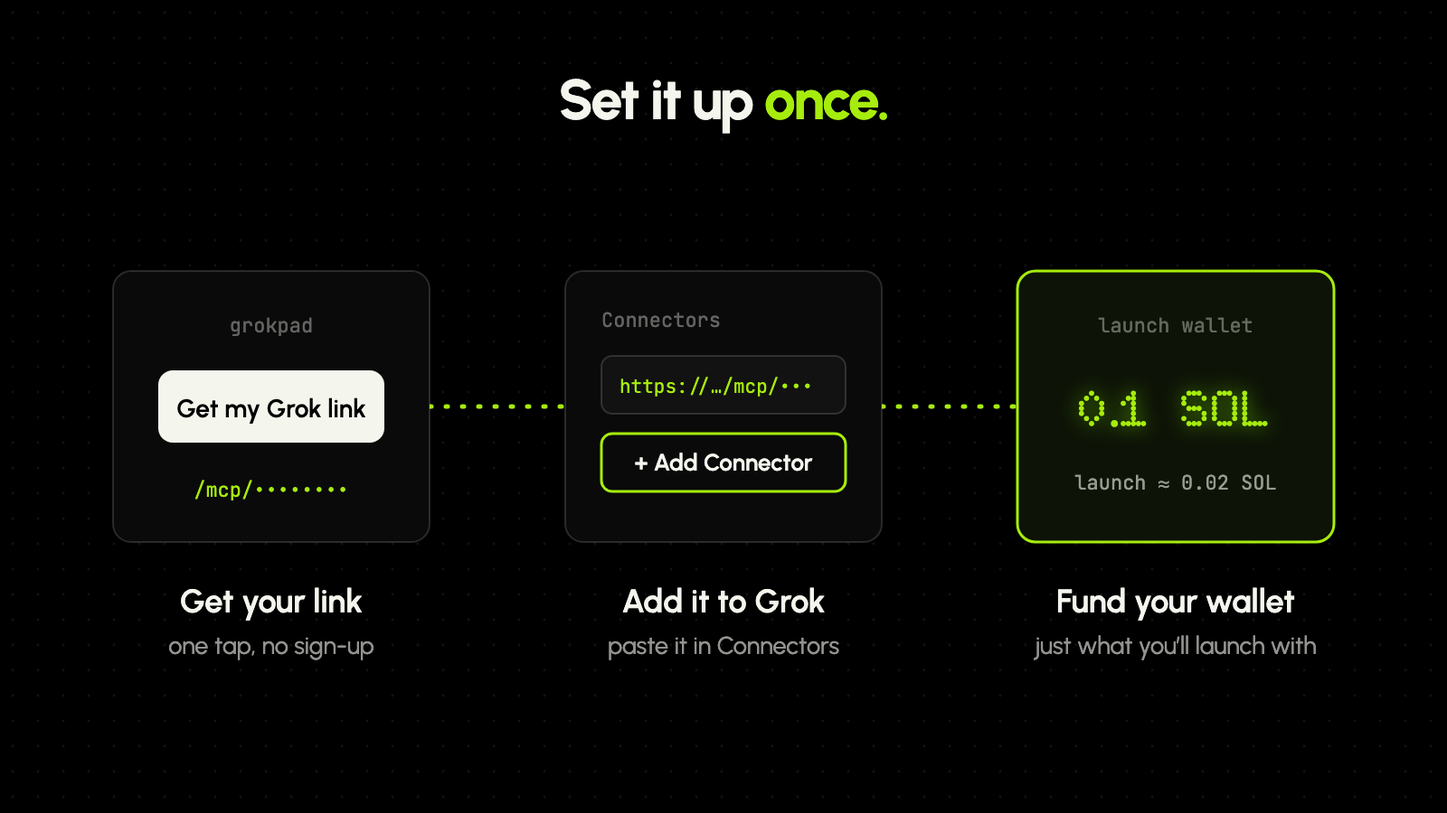
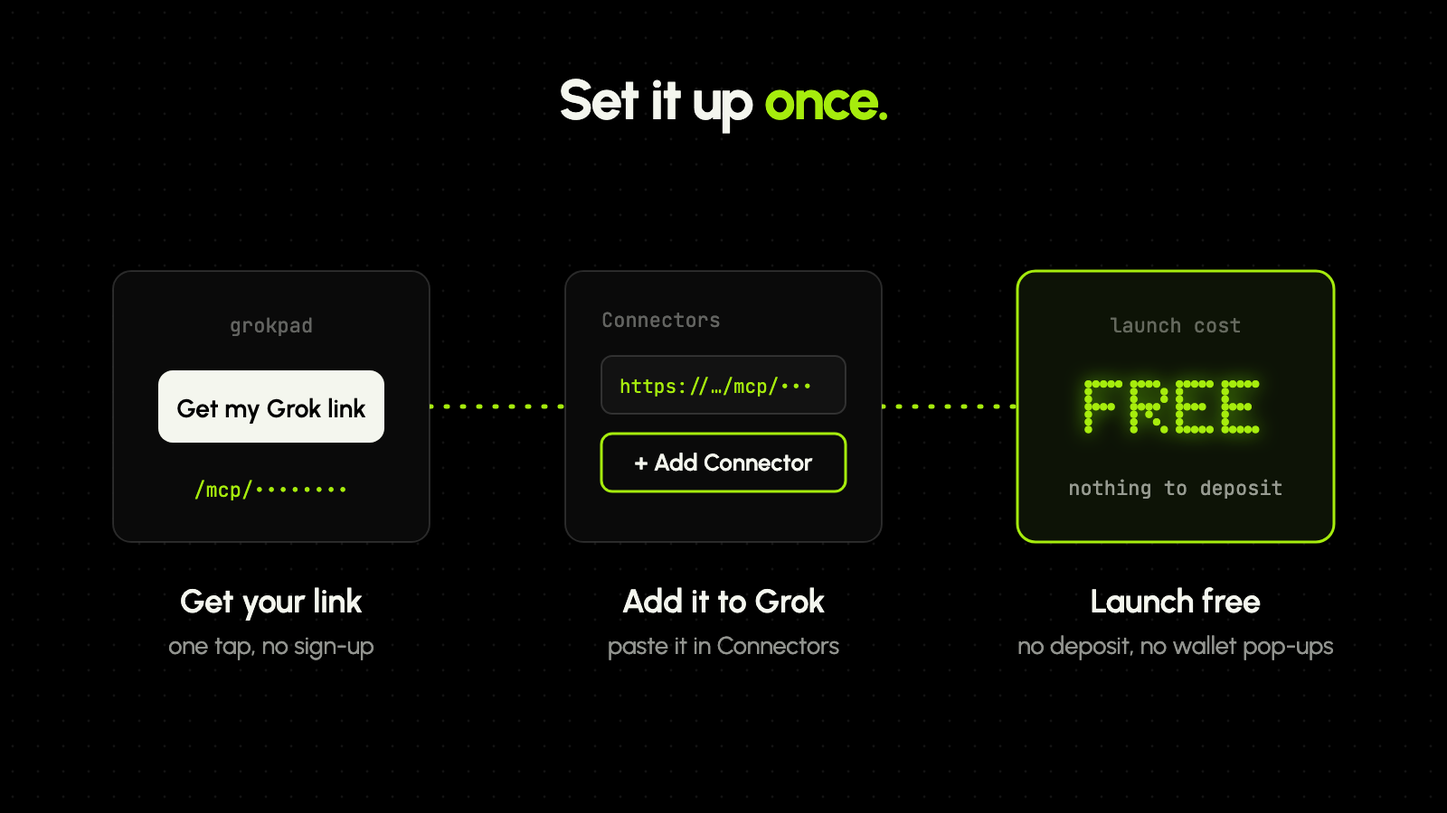
feat: Grokpad article rewritten for free launches
Grokpad now pays for every launch, so the 80/20 fee pitch and the deposit step are gone; the article leads with free, no sign-up, no deposit, and Grok's new reply with the coin's Grokpad page.

diff --git a/docs/grokpad/index.html b/docs/grokpad/index.html
@@ -1,7 +1,7 @@
 <!doctype html>
 <html lang="en"><head><meta charset="utf-8"><meta name="viewport" content="width=device-width,initial-scale=1">
 <title>Grokpad — X article kit</title>
-<meta name="description" content="Say a name and a ticker. Grok puts your coin live on pump.fun."><meta property="og:title" content="Launch a coin by asking Grok"><meta property="og:description" content="Say a name and a ticker. Grok puts your coin live on pump.fun."><meta property="og:image" content="https://moonbagdexter.github.io/article-kits/grokpad/01-cover.png"><meta name="twitter:card" content="summary_large_image"><meta name="twitter:image" content="https://moonbagdexter.github.io/article-kits/grokpad/01-cover.png">
+<meta name="description" content="Free coin launches. No sign-up, no deposit. Just ask Grok."><meta property="og:title" content="Launch a coin for free, just by asking Grok"><meta property="og:description" content="Free coin launches. No sign-up, no deposit. Just ask Grok."><meta property="og:image" content="https://moonbagdexter.github.io/article-kits/grokpad/01-cover.png"><meta name="twitter:card" content="summary_large_image"><meta name="twitter:image" content="https://moonbagdexter.github.io/article-kits/grokpad/01-cover.png">
 <style>
 *{box-sizing:border-box}
 body{margin:0;background:#0b0b0c;color:#E7E9EA;font-family:Inter,"Segoe UI",system-ui,sans-serif;-webkit-font-smoothing:antialiased}
@@ -40,15 +40,14 @@ button.ok{background:#f5b301;color:#111}
 <p>Go top to bottom. Hit <b>Copy</b> on each block, paste it into the X article editor, then move on. The images get <b>Copy image</b> (paste straight in) or <b>Download</b> (upload it).</p>
 <p>Text keeps its bold and bullets when pasted. If a section heading pastes as plain text, highlight it in X and set it to <b>Heading</b>.</p>
 </div>
-<div id="steps"><div class="step"><div class="num">1</div><div class="card"><div class="head"><span class="tag">Title</span><span class="sp"></span><button onclick="copyText(this)">Copy</button></div><div class="body title">Launch a coin by asking Grok</div></div></div><div class="step"><div class="num">2</div><div class="card"><div class="head"><span class="tag">Cover image</span><span class="sp"></span><a class="btn ghost" download="01-cover.png" href="01-cover.png">Download</a><button onclick="copyImage(this)">Copy image</button></div><img src="01-cover.png" alt=""><div class="hint">Cover image — goes in the cover slot at the very top, not in the body.</div></div></div><div class="step"><div class="num">3</div><div class="card"><div class="head"><span class="tag">Text</span><span class="sp"></span><button onclick="copyText(this)">Copy</button></div><div class="body"><p>You already talk to Grok. Now it can launch your coin.</p>
-<p><b>Say a name and a ticker. Grok puts it live on pump.fun.</b></p>
-<h2>Set it up once</h2></div></div></div><div class="step"><div class="num">4</div><div class="card"><div class="head"><span class="tag">Image</span><span class="sp"></span><a class="btn ghost" download="02-setup.png" href="02-setup.png">Download</a><button onclick="copyImage(this)">Copy image</button></div><img src="02-setup.png" alt=""></div></div><div class="step"><div class="num">5</div><div class="card"><div class="head"><span class="tag">Text</span><span class="sp"></span><button onclick="copyText(this)">Copy</button></div><div class="body"><p>Tap one button on Grokpad. You get a private connector link and your own launch wallet. <b>No sign-up, no forms.</b></p>
-<p>Paste the link into Grok’s Connectors. Send a little SOL, just what you’ll launch with. A launch costs about 0.02 SOL.</p>
+<div id="steps"><div class="step"><div class="num">1</div><div class="card"><div class="head"><span class="tag">Title</span><span class="sp"></span><button onclick="copyText(this)">Copy</button></div><div class="body title">Launch a coin for free, just by asking Grok</div></div></div><div class="step"><div class="num">2</div><div class="card"><div class="head"><span class="tag">Cover image</span><span class="sp"></span><a class="btn ghost" download="01-cover.png" href="01-cover.png">Download</a><button onclick="copyImage(this)">Copy image</button></div><img src="01-cover.png" alt=""><div class="hint">Cover image — goes in the cover slot at the very top, not in the body.</div></div></div><div class="step"><div class="num">3</div><div class="card"><div class="head"><span class="tag">Text</span><span class="sp"></span><button onclick="copyText(this)">Copy</button></div><div class="body"><p>You already talk to Grok. Now it can launch your coin.</p>
+<p><b>It’s free. No sign-up, no deposit. Say a name and a ticker, and it’s live on pump.fun.</b></p>
+<h2>Set it up once</h2></div></div></div><div class="step"><div class="num">4</div><div class="card"><div class="head"><span class="tag">Image</span><span class="sp"></span><a class="btn ghost" download="02-setup.png" href="02-setup.png">Download</a><button onclick="copyImage(this)">Copy image</button></div><img src="02-setup.png" alt=""></div></div><div class="step"><div class="num">5</div><div class="card"><div class="head"><span class="tag">Text</span><span class="sp"></span><button onclick="copyText(this)">Copy</button></div><div class="body"><p>Tap one button on Grokpad to get your private connector link. Paste it into Grok’s Connectors. <b>That’s the whole setup.</b></p>
+<p>There’s nothing to fund. Grokpad covers the launch.</p>
 <h2>Then just ask</h2></div></div></div><div class="step"><div class="num">6</div><div class="card"><div class="head"><span class="tag">Image</span><span class="sp"></span><a class="btn ghost" download="03-ask.png" href="03-ask.png">Download</a><button onclick="copyImage(this)">Copy image</button></div><img src="03-ask.png" alt=""></div></div><div class="step"><div class="num">7</div><div class="card"><div class="head"><span class="tag">Text</span><span class="sp"></span><button onclick="copyText(this)">Copy</button></div><div class="body"><p>“Launch a coin called Moon Cat, ticker MCAT, about a cat on the moon.”</p>
-<p>Grok writes the description if you skip it, launches from your wallet and sends back the pump.fun link. <b>No wallet pop-ups.</b></p>
-<p>Check your balance, sell or withdraw the same way.</p>
-<h2>80% of the fees are yours</h2></div></div></div><div class="step"><div class="num">8</div><div class="card"><div class="head"><span class="tag">Image</span><span class="sp"></span><a class="btn ghost" download="04-fees.png" href="04-fees.png">Download</a><button onclick="copyImage(this)">Copy image</button></div><img src="04-fees.png" alt=""></div></div><div class="step"><div class="num">9</div><div class="card"><div class="head"><span class="tag">Text</span><span class="sp"></span><button onclick="copyText(this)">Copy</button></div><div class="body"><p>Every trade of your coin pays a creator fee. <b>80% goes to your wallet, 20% to Grokpad.</b></p>
-<p>The split is written into pump.fun’s own fee program at launch. Nobody can change it, us included. Payouts run on their own.</p></div></div></div><div class="step"><div class="num">10</div><div class="card"><div class="head"><span class="tag">Image</span><span class="sp"></span><a class="btn ghost" download="05-close.png" href="05-close.png">Download</a><button onclick="copyImage(this)">Copy image</button></div><img src="05-close.png" alt=""></div></div><div class="step"><div class="num">11</div><div class="card"><div class="head"><span class="tag">Text</span><span class="sp"></span><button onclick="copyText(this)">Copy</button></div><div class="body"><h2>Say it. It’s live.</h2>
+<p>Grok can write the description and picture for you. <b>No wallet pop-ups, no forms.</b></p>
+<h2>Live in seconds</h2></div></div></div><div class="step"><div class="num">8</div><div class="card"><div class="head"><span class="tag">Image</span><span class="sp"></span><a class="btn ghost" download="04-live.png" href="04-live.png">Download</a><button onclick="copyImage(this)">Copy image</button></div><img src="04-live.png" alt=""></div></div><div class="step"><div class="num">9</div><div class="card"><div class="head"><span class="tag">Text</span><span class="sp"></span><button onclick="copyText(this)">Copy</button></div><div class="body"><p>Grok sends back your coin’s Grokpad page and its contract address. <b>That page is also your coin’s website on pump.fun.</b></p>
+<p>Want a bag of your own coin? Add a little SOL to your Grokpad wallet, just what you’ll trade with, and tell Grok to buy.</p></div></div></div><div class="step"><div class="num">10</div><div class="card"><div class="head"><span class="tag">Image</span><span class="sp"></span><a class="btn ghost" download="05-close.png" href="05-close.png">Download</a><button onclick="copyImage(this)">Copy image</button></div><img src="05-close.png" alt=""></div></div><div class="step"><div class="num">11</div><div class="card"><div class="head"><span class="tag">Text</span><span class="sp"></span><button onclick="copyText(this)">Copy</button></div><div class="body"><h2>Say it. It’s live.</h2>
 <p><b>Get your link at grokpad.org</b></p>
 <p>What’s the first coin you’d ask Grok for?</p></div></div></div></div>
 </div>

diff --git a/kits/grokpad/art/02-setup.html b/kits/grokpad/art/02-setup.html
@@ -22,4 +22,4 @@ svg{display:block}
 </style></head><body><svg width="1600" height="900" viewBox="0 0 1600 900"><defs>
 <radialGradient id="glow" cx="0.5" cy="0.5" r="0.5"><stop offset="0" stop-color="#5aab04" stop-opacity="0.22"/><stop offset="1" stop-color="#a6ec0d" stop-opacity="0"/></radialGradient>
 <pattern id="dots" width="28" height="28" patternUnits="userSpaceOnUse"><circle cx="14" cy="14" r="1.4" fill="#ffffff" fill-opacity="0.075"/></pattern>
-</defs><rect width="1600" height="900" fill="url(#dots)"/><text class="disp" x="800" y="132" font-size="62" text-anchor="middle">Set it up <tspan class="lime">once.</tspan></text><path class="dash" d="M475 450H625"/><path class="dash" d="M975 450H1125"/><rect x="125" y="300" width="350" height="300" rx="20" class="panel"/><rect x="175" y="410" width="250" height="80" rx="16" fill="#f4f6ee"/><text class="txt" x="300" y="462" font-size="28" font-weight="600" text-anchor="middle" style="fill:#000000">Get my Grok link</text><text class="mono" x="300" y="368" font-size="22" text-anchor="middle" style="fill:rgb(244 246 238 / 0.38)">grokpad</text><text class="mono lime" x="300" y="550" font-size="22" text-anchor="middle">/mcp/••••••••</text><rect x="625" y="300" width="350" height="300" rx="20" class="panel"/><text class="mono" x="665" y="362" font-size="22" style="fill:rgb(244 246 238 / 0.38)">Connectors</text><rect x="665" y="394" width="270" height="64" rx="12" fill="#121212" stroke="rgb(255 255 255 / 0.15)" stroke-width="2"/><text class="mono lime" x="685" y="435" font-size="21">https://…/mcp/•••</text><rect x="665" y="480" width="270" height="64" rx="12" fill="none" stroke="#a6ec0d" stroke-width="3"/><text class="txt" x="800" y="521" font-size="26" font-weight="600" text-anchor="middle">+ Add Connector</text><rect x="1125" y="300" width="350" height="300" rx="20" class="panel-lit"/><text class="mono" x="1300" y="368" font-size="22" text-anchor="middle" style="fill:rgb(244 246 238 / 0.38)">launch wallet</text><text class="led lime glow" x="1300" y="472" font-size="56" text-anchor="middle">0<tspan class="pct">.</tspan>1 SOL</text><text class="mono" x="1300" y="542" font-size="22" text-anchor="middle" style="fill:rgb(244 246 238 / 0.6)">launch ≈ 0.02 SOL</text><text class="txt" x="300" y="678" font-size="36" font-weight="600" text-anchor="middle">Get your link</text><text class="muted" x="300" y="724" font-size="27" text-anchor="middle">one tap, no sign-up</text><text class="txt" x="800" y="678" font-size="36" font-weight="600" text-anchor="middle">Add it to Grok</text><text class="muted" x="800" y="724" font-size="27" text-anchor="middle">paste it in Connectors</text><text class="txt" x="1300" y="678" font-size="36" font-weight="600" text-anchor="middle">Fund your wallet</text><text class="muted" x="1300" y="724" font-size="27" text-anchor="middle">just what you’ll launch with</text></svg></body></html>
+</defs><rect width="1600" height="900" fill="url(#dots)"/><text class="disp" x="800" y="132" font-size="62" text-anchor="middle">Set it up <tspan class="lime">once.</tspan></text><path class="dash" d="M475 450H625"/><path class="dash" d="M975 450H1125"/><rect x="125" y="300" width="350" height="300" rx="20" class="panel"/><rect x="175" y="410" width="250" height="80" rx="16" fill="#f4f6ee"/><text class="txt" x="300" y="462" font-size="28" font-weight="600" text-anchor="middle" style="fill:#000000">Get my Grok link</text><text class="mono" x="300" y="368" font-size="22" text-anchor="middle" style="fill:rgb(244 246 238 / 0.38)">grokpad</text><text class="mono lime" x="300" y="550" font-size="22" text-anchor="middle">/mcp/••••••••</text><rect x="625" y="300" width="350" height="300" rx="20" class="panel"/><text class="mono" x="665" y="362" font-size="22" style="fill:rgb(244 246 238 / 0.38)">Connectors</text><rect x="665" y="394" width="270" height="64" rx="12" fill="#121212" stroke="rgb(255 255 255 / 0.15)" stroke-width="2"/><text class="mono lime" x="685" y="435" font-size="21">https://…/mcp/•••</text><rect x="665" y="480" width="270" height="64" rx="12" fill="none" stroke="#a6ec0d" stroke-width="3"/><text class="txt" x="800" y="521" font-size="26" font-weight="600" text-anchor="middle">+ Add Connector</text><rect x="1125" y="300" width="350" height="300" rx="20" class="panel-lit"/><text class="mono" x="1300" y="368" font-size="22" text-anchor="middle" style="fill:rgb(244 246 238 / 0.38)">launch cost</text><text class="led lime glow" x="1300" y="480" font-size="84" text-anchor="middle">FREE</text><text class="mono" x="1300" y="548" font-size="22" text-anchor="middle" style="fill:rgb(244 246 238 / 0.6)">nothing to deposit</text><text class="txt" x="300" y="678" font-size="36" font-weight="600" text-anchor="middle">Get your link</text><text class="muted" x="300" y="724" font-size="27" text-anchor="middle">one tap, no sign-up</text><text class="txt" x="800" y="678" font-size="36" font-weight="600" text-anchor="middle">Add it to Grok</text><text class="muted" x="800" y="724" font-size="27" text-anchor="middle">paste it in Connectors</text><text class="txt" x="1300" y="678" font-size="36" font-weight="600" text-anchor="middle">Launch free</text><text class="muted" x="1300" y="724" font-size="27" text-anchor="middle">no deposit, no wallet pop-ups</text></svg></body></html>

diff --git a/docs/index.html b/docs/index.html
@@ -16,5 +16,5 @@ p{color:#8b8f94;font-size:14px;line-height:1.5;margin:0 0 20px}
 </style></head><body><div class="wrap">
 <h1>X article kits</h1>
 <p>Open one, then copy each block into the X article editor, top to bottom.</p>
-<a class="kit" href="grokpad/"><img src="grokpad/01-cover.png" alt=""><div class="info"><div class="proj">Grokpad · 2026-10-19</div><div class="t">Launch a coin by asking Grok</div></div></a><a class="kit" href="candy-or-curse/"><img src="candy-or-curse/01-cover.png" alt=""><div class="info"><div class="proj">Candy or Curse · 2026-10-09</div><div class="t">Knock on a door. Get candy, or get cursed.</div></div></a><a class="kit" href="fee2play/"><img src="fee2play/01-cover.png" alt=""><div class="info"><div class="proj">Fee2Play · 2026-10-09</div><div class="t">Launch a coin. Its fees pay an AI to build its game.</div></div></a><a class="kit" href="treepad/"><img src="treepad/01-cover.png" alt=""><div class="info"><div class="proj">Treepad · 2026-10-08</div><div class="t">Launch a coin that plants real trees</div></div></a><a class="kit" href="mintmark/"><img src="mintmark/01-cover.png" alt=""><div class="info"><div class="proj">Mintmark · 2026-10-05</div><div class="t">Give your coin a voice, and a week of posts to go with it</div></div></a><a class="kit" href="pair-pond/"><img src="pair-pond/01-cover.png" alt=""><div class="info"><div class="proj">Pair Pond · 2026-09-29</div><div class="t">A fishing game where every fish is a real coin</div></div></a><a class="kit" href="nokpad/"><img src="nokpad/01-cover.png" alt=""><div class="info"><div class="proj">NOKPAD · 2026-09-28</div><div class="t">Launch your Nokia pair from a Nokia</div></div></a><a class="kit" href="scanny/"><img src="scanny/01-cover.png" alt=""><div class="info"><div class="proj">Scanny · 2026-09-24</div><div class="t">Scan any barcode. Launch its coin.</div></div></a><a class="kit" href="curv-fund/"><img src="curv-fund/01-cover.png" alt=""><div class="info"><div class="proj">Curv Fund · 2026-09-23</div><div class="t">Borrow against a coin that’s minutes old</div></div></a><a class="kit" href="skinpair/"><img src="skinpair/01-cover.png" alt=""><div class="info"><div class="proj">SkinPair · 2026-09-23</div><div class="t">Every coin buys a real CSGO skin</div></div></a><a class="kit" href="maxpad/"><img src="maxpad/01-cover.png" alt=""><div class="info"><div class="proj">Maxpad · 2026-09-22</div><div class="t">Send your coin’s fees to anyone you pick</div></div></a><a class="kit" href="proof-of-time/"><img src="proof-of-time/01-header.png" alt=""><div class="info"><div class="proj">Proof of Time · 2026-09-21</div><div class="t">The one thing AI can’t fake is the past</div></div></a>
+<a class="kit" href="grokpad/"><img src="grokpad/01-cover.png" alt=""><div class="info"><div class="proj">Grokpad · 2026-10-19</div><div class="t">Launch a coin for free, just by asking Grok</div></div></a><a class="kit" href="candy-or-curse/"><img src="candy-or-curse/01-cover.png" alt=""><div class="info"><div class="proj">Candy or Curse · 2026-10-09</div><div class="t">Knock on a door. Get candy, or get cursed.</div></div></a><a class="kit" href="fee2play/"><img src="fee2play/01-cover.png" alt=""><div class="info"><div class="proj">Fee2Play · 2026-10-09</div><div class="t">Launch a coin. Its fees pay an AI to build its game.</div></div></a><a class="kit" href="treepad/"><img src="treepad/01-cover.png" alt=""><div class="info"><div class="proj">Treepad · 2026-10-08</div><div class="t">Launch a coin that plants real trees</div></div></a><a class="kit" href="mintmark/"><img src="mintmark/01-cover.png" alt=""><div class="info"><div class="proj">Mintmark · 2026-10-05</div><div class="t">Give your coin a voice, and a week of posts to go with it</div></div></a><a class="kit" href="pair-pond/"><img src="pair-pond/01-cover.png" alt=""><div class="info"><div class="proj">Pair Pond · 2026-09-29</div><div class="t">A fishing game where every fish is a real coin</div></div></a><a class="kit" href="nokpad/"><img src="nokpad/01-cover.png" alt=""><div class="info"><div class="proj">NOKPAD · 2026-09-28</div><div class="t">Launch your Nokia pair from a Nokia</div></div></a><a class="kit" href="scanny/"><img src="scanny/01-cover.png" alt=""><div class="info"><div class="proj">Scanny · 2026-09-24</div><div class="t">Scan any barcode. Launch its coin.</div></div></a><a class="kit" href="curv-fund/"><img src="curv-fund/01-cover.png" alt=""><div class="info"><div class="proj">Curv Fund · 2026-09-23</div><div class="t">Borrow against a coin that’s minutes old</div></div></a><a class="kit" href="skinpair/"><img src="skinpair/01-cover.png" alt=""><div class="info"><div class="proj">SkinPair · 2026-09-23</div><div class="t">Every coin buys a real CSGO skin</div></div></a><a class="kit" href="maxpad/"><img src="maxpad/01-cover.png" alt=""><div class="info"><div class="proj">Maxpad · 2026-09-22</div><div class="t">Send your coin’s fees to anyone you pick</div></div></a><a class="kit" href="proof-of-time/"><img src="proof-of-time/01-header.png" alt=""><div class="info"><div class="proj">Proof of Time · 2026-09-21</div><div class="t">The one thing AI can’t fake is the past</div></div></a>
 </div></body></html>

diff --git a/kits/grokpad/art/03-ask.html b/kits/grokpad/art/03-ask.html
@@ -22,4 +22,4 @@ svg{display:block}
 </style></head><body><svg width="1600" height="900" viewBox="0 0 1600 900"><defs>
 <radialGradient id="glow" cx="0.5" cy="0.5" r="0.5"><stop offset="0" stop-color="#5aab04" stop-opacity="0.22"/><stop offset="1" stop-color="#a6ec0d" stop-opacity="0"/></radialGradient>
 <pattern id="dots" width="28" height="28" patternUnits="userSpaceOnUse"><circle cx="14" cy="14" r="1.4" fill="#ffffff" fill-opacity="0.075"/></pattern>
-</defs><rect width="1600" height="900" fill="url(#dots)"/><text class="disp" x="800" y="132" font-size="62" text-anchor="middle">Then just <tspan class="lime">ask.</tspan></text><rect x="230" y="210" width="1140" height="560" rx="28" class="panel"/><text class="mono" x="290" y="290" font-size="26" style="fill:rgb(244 246 238 / 0.38)">you</text><text class="mono" x="290" y="338" font-size="31">launch a coin called Moon Cat, ticker MCAT,</text><text class="mono" x="290" y="382" font-size="31">about a cat that lives on the moon</text><text class="mono" x="290" y="466" font-size="26" style="fill:rgb(244 246 238 / 0.38)">grok</text><text class="mono" x="290" y="514" font-size="31" style="fill:rgb(244 246 238 / 0.6)">Done. <tspan style="fill:#f4f6ee">Moon Cat ($MCAT)</tspan> is live on pump.fun:</text><text class="mono lime" x="290" y="558" font-size="31">pump.fun/coin/7xKp…pump</text><text class="mono" x="290" y="602" font-size="31" style="fill:rgb(244 246 238 / 0.6)">Creator fees are locked: 80% to you, 20% to Grokpad.</text><rect x="286.0" y="660" width="330" height="64" rx="32" fill="#121212" stroke="rgb(255 255 255 / 0.15)" stroke-width="2"/><text class="mono" x="451.0" y="701" font-size="23" text-anchor="middle" style="fill:rgb(244 246 238 / 0.6)">“what’s my balance?”</text><rect x="640.0" y="660" width="270" height="64" rx="32" fill="#121212" stroke="rgb(255 255 255 / 0.15)" stroke-width="2"/><text class="mono" x="775.0" y="701" font-size="23" text-anchor="middle" style="fill:rgb(244 246 238 / 0.6)">“sell my MCAT”</text><rect x="934.0" y="660" width="380" height="64" rx="32" fill="#121212" stroke="rgb(255 255 255 / 0.15)" stroke-width="2"/><text class="mono" x="1124.0" y="701" font-size="23" text-anchor="middle" style="fill:rgb(244 246 238 / 0.6)">“withdraw to my wallet”</text><text class="dim" x="800" y="850" font-size="27" text-anchor="middle">No wallet pop-ups. No forms.</text></svg></body></html>
+</defs><rect width="1600" height="900" fill="url(#dots)"/><text class="disp" x="800" y="132" font-size="62" text-anchor="middle">Then just <tspan class="lime">ask.</tspan></text><rect x="230" y="210" width="1140" height="560" rx="28" class="panel"/><text class="mono" x="290" y="290" font-size="26" style="fill:rgb(244 246 238 / 0.38)">you</text><text class="mono" x="290" y="338" font-size="31">launch a coin called Moon Cat, ticker MCAT,</text><text class="mono" x="290" y="382" font-size="31">about a cat that lives on the moon</text><text class="mono" x="290" y="466" font-size="26" style="fill:rgb(244 246 238 / 0.38)">grok</text><text class="mono" x="290" y="514" font-size="31" font-weight="700">Moon Cat ($MCAT) is live</text><text class="mono" x="290" y="558" font-size="31" style="fill:rgb(244 246 238 / 0.6)">Grokpad page: <tspan class="lime">grokpad.org/coins/7xKp…pump</tspan></text><text class="mono" x="290" y="602" font-size="31" style="fill:rgb(244 246 238 / 0.6)">Contract address: <tspan style="fill:#f4f6ee">7xKp…pump</tspan></text><rect x="276.0" y="660" width="360" height="64" rx="12" fill="#121212" stroke="rgb(255 255 255 / 0.15)" stroke-width="2"/><text class="mono" x="456.0" y="701" font-size="23" text-anchor="middle" style="fill:rgb(244 246 238 / 0.6)">“buy 0.1 SOL of $MCAT”</text><rect x="660.0" y="660" width="260" height="64" rx="12" fill="#121212" stroke="rgb(255 255 255 / 0.15)" stroke-width="2"/><text class="mono" x="790.0" y="701" font-size="23" text-anchor="middle" style="fill:rgb(244 246 238 / 0.6)">“sell my MCAT”</text><rect x="944.0" y="660" width="380" height="64" rx="12" fill="#121212" stroke="rgb(255 255 255 / 0.15)" stroke-width="2"/><text class="mono" x="1134.0" y="701" font-size="23" text-anchor="middle" style="fill:rgb(244 246 238 / 0.6)">“withdraw to my wallet”</text><text class="dim" x="800" y="850" font-size="27" text-anchor="middle">No wallet pop-ups. No forms.</text></svg></body></html>

diff --git a/kits/grokpad/art/04-live.html b/kits/grokpad/art/04-live.html
@@ -1,0 +1,25 @@
+<!doctype html><html><head><meta charset="utf-8">
+<link rel="preconnect" href="https://fonts.googleapis.com"><link rel="preconnect" href="https://fonts.gstatic.com" crossorigin>
+<link href="https://fonts.googleapis.com/css2?family=Urbanist:wght@400;500;600;700&family=Doto:ROND,wght@0..100,100..900&family=JetBrains+Mono:wght@400;500;700&display=block" rel="stylesheet">
+<style>
+html,body{margin:0;padding:0;background:#000000;overflow:hidden}
+svg{display:block}
+.disp{font-family:Urbanist;font-weight:700;fill:#f4f6ee;letter-spacing:-0.03em}
+.txt{font-family:Urbanist;fill:#f4f6ee}
+.muted{font-family:Urbanist;fill:rgb(244 246 238 / 0.6)}
+.dim{font-family:Urbanist;fill:rgb(244 246 238 / 0.38)}
+.mono{font-family:'JetBrains Mono';fill:#f4f6ee}
+.lime{fill:#a6ec0d}
+.led{fill:#f4f6ee;font-family:Doto;font-variation-settings:'ROND' 100;font-weight:900}
+.led.lime{fill:#a6ec0d}
+.pct{font-family:Urbanist;font-weight:700;font-variation-settings:normal}
+.glow{filter:drop-shadow(0 0 10px #5aab04)}
+.panel{fill:#0a0a0a;stroke:rgb(255 255 255 / 0.15);stroke-width:2}
+.panel-lit{fill:#0d1306;stroke:#a6ec0d;stroke-width:3}
+.wire{fill:none;stroke:#a6ec0d;stroke-width:5;stroke-linecap:round}
+.wire-dim{fill:none;stroke:rgb(255 255 255 / 0.22);stroke-width:4;stroke-linecap:round}
+.dash{fill:none;stroke:#a6ec0d;stroke-width:5;stroke-dasharray:2 16;stroke-linecap:round}
+</style></head><body><svg width="1600" height="900" viewBox="0 0 1600 900"><defs>
+<radialGradient id="glow" cx="0.5" cy="0.5" r="0.5"><stop offset="0" stop-color="#5aab04" stop-opacity="0.22"/><stop offset="1" stop-color="#a6ec0d" stop-opacity="0"/></radialGradient>
+<pattern id="dots" width="28" height="28" patternUnits="userSpaceOnUse"><circle cx="14" cy="14" r="1.4" fill="#ffffff" fill-opacity="0.075"/></pattern>
+</defs><rect width="1600" height="900" fill="url(#dots)"/><text class="disp" x="800" y="132" font-size="62" text-anchor="middle">Live in seconds. <tspan class="lime">With its own page.</tspan></text><rect x="200" y="215" width="1200" height="520" rx="28" class="panel"/><rect x="230" y="243" width="1140" height="62" rx="12" fill="#121212" stroke="rgb(255 255 255 / 0.15)" stroke-width="2"/><circle cx="264" cy="274" r="7" fill="#a6ec0d"/><text class="mono" x="290" y="283" font-size="26"><tspan class="lime">grokpad.org</tspan><tspan style="fill:rgb(244 246 238 / 0.6)">/coins/7xKp…pump</tspan></text><circle cx="320" cy="435" r="74" fill="#0d1306" stroke="#a6ec0d" stroke-width="3"/><circle cx="320" cy="435" r="120" fill="url(#glow)"/><text class="led lime" x="320" y="453" font-size="52" text-anchor="middle">MC</text><text class="disp" x="432" y="429" font-size="58">Moon Cat</text><text class="mono" x="434" y="479" font-size="28" style="fill:rgb(244 246 238 / 0.6)">$MCAT</text><rect x="570" y="451" width="246" height="40" rx="6" fill="#0d1306" stroke="#a6ec0d" stroke-width="2"/><circle cx="594" cy="471" r="6" fill="#a6ec0d"/><text class="mono lime" x="610" y="479" font-size="20" font-weight="700">LIVE ON PUMP.FUN</text><path d="M246 551H1354" stroke="rgb(255 255 255 / 0.08)" stroke-width="2"/><text class="muted" x="246" y="595" font-size="28">Contract address</text><text x="1354" y="595" font-size="28" text-anchor="end"><tspan class="mono" style="fill:#f4f6ee">7xKp…pump</tspan></text><path d="M246 635H1354" stroke="rgb(255 255 255 / 0.08)" stroke-width="2"/><text class="muted" x="246" y="679" font-size="28">pump.fun website</text><text x="1354" y="679" font-size="28" text-anchor="end"><tspan class="mono lime">this page</tspan></text><rect x="1100" y="355" width="254" height="160" rx="16" class="panel-lit"/><text class="mono" x="1227" y="401" font-size="20" text-anchor="middle" style="fill:rgb(244 246 238 / 0.38)">launch cost</text><text class="led lime glow" x="1227" y="473" font-size="64" text-anchor="middle">FREE</text><text class="dim" x="800" y="835" font-size="27" text-anchor="middle">Grok sends back the page and the contract address.</text></svg></body></html>

diff --git a/kits/grokpad/art/01-cover.html b/kits/grokpad/art/01-cover.html
@@ -22,4 +22,4 @@ svg{display:block}
 </style></head><body><svg width="2000" height="800" viewBox="0 0 2000 800"><defs>
 <radialGradient id="glow" cx="0.5" cy="0.5" r="0.5"><stop offset="0" stop-color="#5aab04" stop-opacity="0.22"/><stop offset="1" stop-color="#a6ec0d" stop-opacity="0"/></radialGradient>
 <pattern id="dots" width="28" height="28" patternUnits="userSpaceOnUse"><circle cx="14" cy="14" r="1.4" fill="#ffffff" fill-opacity="0.075"/></pattern>
-</defs><rect width="2000" height="800" fill="url(#dots)"/><ellipse cx="1000" cy="350" rx="784.5290640394088" ry="323.0" fill="url(#glow)"/><image href="lockup.png" x="367.3152709359606" y="180.0" width="1265.3694581280788" height="340"/><text class="muted" x="1000" y="640" font-size="52" text-anchor="middle" font-weight="500">Launch coins by <tspan class="lime">asking Grok.</tspan></text></svg></body></html>
+</defs><rect width="2000" height="800" fill="url(#dots)"/><ellipse cx="1000" cy="350" rx="784.5290640394088" ry="323.0" fill="url(#glow)"/><image href="lockup.png" x="367.3152709359606" y="180.0" width="1265.3694581280788" height="340"/><text class="muted" x="1000" y="640" font-size="52" text-anchor="middle" font-weight="500">Free coin launches. <tspan class="lime">Just ask Grok.</tspan></text></svg></body></html>

diff --git a/kits/grokpad/art/gen.py b/kits/grokpad/art/gen.py
@@ -59,7 +59,7 @@ def lockup(cx, cy, h, glow=True):
 
 # ---------------------------------------------------------------- 1 cover 2000x800
 b = [lockup(1000, 350, 340)]
-b.append('<text class="muted" x="1000" y="640" font-size="52" text-anchor="middle" font-weight="500">Launch coins by <tspan class="lime">asking Grok.</tspan></text>')
+b.append('<text class="muted" x="1000" y="640" font-size="52" text-anchor="middle" font-weight="500">Free coin launches. <tspan class="lime">Just ask Grok.</tspan></text>')
 page('01-cover.html', 2000, 800, b)
 
 # ---------------------------------------------------------------- 2 set it up 1600x900
@@ -81,12 +81,12 @@ b.append(f'<rect x="{xs[1] - 135}" y="{cy - 56}" width="270" height="64" rx="12"
 b.append(f'<text class="mono lime" x="{xs[1] - 115}" y="{cy - 15}" font-size="21">https://…/mcp/•••</text>')
 b.append(f'<rect x="{xs[1] - 135}" y="{cy + 30}" width="270" height="64" rx="12" fill="none" stroke="{LIME}" stroke-width="3"/>')
 b.append(f'<text class="txt" x="{xs[1]}" y="{cy + 71}" font-size="26" font-weight="600" text-anchor="middle">+ Add Connector</text>')
-# 3: fund
+# 3: launch free
 b.append(panel(xs[2] - 175, cy - 150, 350, 300, lit=True))
-b.append(f'<text class="mono" x="{xs[2]}" y="{cy - 82}" font-size="22" text-anchor="middle" style="fill:rgb(244 246 238 / 0.38)">launch wallet</text>')
-b.append(f'<text class="led lime glow" x="{xs[2]}" y="{cy + 22}" font-size="56" text-anchor="middle">0<tspan class="pct">.</tspan>1 SOL</text>')
-b.append(f'<text class="mono" x="{xs[2]}" y="{cy + 92}" font-size="22" text-anchor="middle" style="fill:rgb(244 246 238 / 0.6)">launch ≈ 0.02 SOL</text>')
-steps = [('Get your link', 'one tap, no sign-up'), ('Add it to Grok', 'paste it in Connectors'), ('Fund your wallet', 'just what you’ll launch with')]
+b.append(f'<text class="mono" x="{xs[2]}" y="{cy - 82}" font-size="22" text-anchor="middle" style="fill:rgb(244 246 238 / 0.38)">launch cost</text>')
+b.append(f'<text class="led lime glow" x="{xs[2]}" y="{cy + 30}" font-size="84" text-anchor="middle">FREE</text>')
+b.append(f'<text class="mono" x="{xs[2]}" y="{cy + 98}" font-size="22" text-anchor="middle" style="fill:rgb(244 246 238 / 0.6)">nothing to deposit</text>')
+steps = [('Get your link', 'one tap, no sign-up'), ('Add it to Grok', 'paste it in Connectors'), ('Launch free', 'no deposit, no wallet pop-ups')]
 for x, (a, c) in zip(xs, steps):
     b.append(f'<text class="txt" x="{x}" y="{cy + 228}" font-size="36" font-weight="600" text-anchor="middle">{a}</text>')
     b.append(f'<text class="muted" x="{x}" y="{cy + 274}" font-size="27" text-anchor="middle">{c}</text>')
@@ -101,42 +101,54 @@ b.append(f'<text class="mono" x="{lx}" y="{py + 80}" font-size="26" style="fill:
 b.append(f'<text class="mono" x="{lx}" y="{py + 128}" font-size="31">launch a coin called Moon Cat, ticker MCAT,</text>')
 b.append(f'<text class="mono" x="{lx}" y="{py + 172}" font-size="31">about a cat that lives on the moon</text>')
 b.append(f'<text class="mono" x="{lx}" y="{py + 256}" font-size="26" style="fill:rgb(244 246 238 / 0.38)">grok</text>')
-b.append(f'<text class="mono" x="{lx}" y="{py + 304}" font-size="31" style="fill:rgb(244 246 238 / 0.6)">Done. <tspan style="fill:#f4f6ee">Moon Cat ($MCAT)</tspan> is live on pump.fun:</text>')
-b.append(f'<text class="mono lime" x="{lx}" y="{py + 348}" font-size="31">pump.fun/coin/7xKp…pump</text>')
-b.append(f'<text class="mono" x="{lx}" y="{py + 392}" font-size="31" style="fill:rgb(244 246 238 / 0.6)">Creator fees are locked: 80% to you, 20% to Grokpad.</text>')
-chips = ['“what’s my balance?”', '“sell my MCAT”', '“withdraw to my wallet”']
-cw = [330, 270, 380]
+b.append(f'<text class="mono" x="{lx}" y="{py + 304}" font-size="31" font-weight="700">Moon Cat ($MCAT) is live</text>')
+b.append(f'<text class="mono" x="{lx}" y="{py + 348}" font-size="31" style="fill:rgb(244 246 238 / 0.6)">Grokpad page: <tspan class="lime">grokpad.org/coins/7xKp…pump</tspan></text>')
+b.append(f'<text class="mono" x="{lx}" y="{py + 392}" font-size="31" style="fill:rgb(244 246 238 / 0.6)">Contract address: <tspan style="fill:#f4f6ee">7xKp…pump</tspan></text>')
+chips = ['“buy 0.1 SOL of $MCAT”', '“sell my MCAT”', '“withdraw to my wallet”']
+cw = [360, 260, 380]
 gap = 24
 x = px + (pw - (sum(cw) + gap * 2)) / 2
 for c, w in zip(chips, cw):
-    b.append(f'<rect x="{x}" y="{py + 450}" width="{w}" height="64" rx="32" fill="#121212" stroke="rgb(255 255 255 / 0.15)" stroke-width="2"/>')
+    b.append(f'<rect x="{x}" y="{py + 450}" width="{w}" height="64" rx="12" fill="#121212" stroke="rgb(255 255 255 / 0.15)" stroke-width="2"/>')
     b.append(f'<text class="mono" x="{x + w / 2}" y="{py + 491}" font-size="23" text-anchor="middle" style="fill:rgb(244 246 238 / 0.6)">{c}</text>')
     x += w + gap
 b.append('<text class="dim" x="800" y="850" font-size="27" text-anchor="middle">No wallet pop-ups. No forms.</text>')
 page('03-ask.html', 1600, 900, b)
 
-# ---------------------------------------------------------------- 4 the fees 1600x900
-b = ['<text class="disp" x="800" y="132" font-size="62" text-anchor="middle"><tspan class="lime">80%</tspan> of the fees are yours.</text>']
-cy = 480
-b.append(panel(110, cy - 110, 360, 220))
-b.append(f'<text class="muted" x="150" y="{cy - 40}" font-size="28">Creator fees</text>')
-b.append(f'<text class="led" x="150" y="{cy + 28}" font-size="58">$MCAT</text>')
-b.append(f'<text class="dim" x="150" y="{cy + 72}" font-size="25">every trade, forever</text>')
-b.append(f'<path class="wire" d="M470 {cy}H640"/>')
-b.append(mark(760, cy, 230))
-# 80 branch
-y1, y2 = 330, 650
-b.append(f'<path d="M870 {cy} C960 {cy} 960 {y1} 1050 {y1}" fill="none" stroke="{LIME}" stroke-width="12" stroke-linecap="round"/>')
-b.append(f'<path d="M870 {cy} C960 {cy} 960 {y2} 1050 {y2}" class="wire-dim"/>')
-b.append(panel(1050, y1 - 95, 440, 190, lit=True))
-b.append(f'<text class="led lime glow" x="1085" y="{y1 + 38}" font-size="108">80<tspan class="pct">%</tspan></text>')
-b.append(f'<text class="txt" x="1450" y="{y1 - 6}" font-size="32" font-weight="600" text-anchor="end">You</text>')
-b.append(f'<text class="muted" x="1450" y="{y1 + 34}" font-size="25" text-anchor="end">your wallet</text>')
-b.append(panel(1050, y2 - 80, 440, 160))
-b.append(f'<text class="led" x="1085" y="{y2 + 28}" font-size="80" style="fill:rgb(244 246 238 / 0.6)">20<tspan class="pct">%</tspan></text>')
-b.append(f'<text class="txt" x="1450" y="{y2 + 10}" font-size="32" font-weight="600" text-anchor="end" style="fill:rgb(244 246 238 / 0.6)">Grokpad</text>')
-b.append('<text class="dim" x="800" y="840" font-size="27" text-anchor="middle">Locked on pump.fun’s fee program at launch. Nobody can change it, us included.</text>')
-page('04-fees.html', 1600, 900, b)
+# ---------------------------------------------------------------- 4 live, with its own page 1600x900
+b = ['<text class="disp" x="800" y="132" font-size="62" text-anchor="middle">Live in seconds. <tspan class="lime">With its own page.</tspan></text>']
+px, py, pw, ph = 200, 215, 1200, 520
+b.append(panel(px, py, pw, ph, 28))
+# address bar
+b.append(f'<rect x="{px + 30}" y="{py + 28}" width="{pw - 60}" height="62" rx="12" fill="#121212" stroke="rgb(255 255 255 / 0.15)" stroke-width="2"/>')
+b.append(f'<circle cx="{px + 64}" cy="{py + 59}" r="7" fill="{LIME}"/>')
+b.append(f'<text class="mono" x="{px + 90}" y="{py + 68}" font-size="26"><tspan class="lime">grokpad.org</tspan><tspan style="fill:rgb(244 246 238 / 0.6)">/coins/7xKp…pump</tspan></text>')
+# coin header
+ax, ay = px + 120, py + 220
+b.append(f'<circle cx="{ax}" cy="{ay}" r="74" fill="#0d1306" stroke="{LIME}" stroke-width="3"/>')
+b.append(f'<circle cx="{ax}" cy="{ay}" r="120" fill="url(#glow)"/>')
+b.append(f'<text class="led lime" x="{ax}" y="{ay + 18}" font-size="52" text-anchor="middle">MC</text>')
+b.append(f'<text class="disp" x="{ax + 112}" y="{ay - 6}" font-size="58">Moon Cat</text>')
+b.append(f'<text class="mono" x="{ax + 114}" y="{ay + 44}" font-size="28" style="fill:rgb(244 246 238 / 0.6)">$MCAT</text>')
+b.append(f'<rect x="{ax + 250}" y="{ay + 16}" width="246" height="40" rx="6" fill="#0d1306" stroke="{LIME}" stroke-width="2"/>')
+b.append(f'<circle cx="{ax + 274}" cy="{ay + 36}" r="6" fill="{LIME}"/>')
+b.append(f'<text class="mono lime" x="{ax + 290}" y="{ay + 44}" font-size="20" font-weight="700">LIVE ON PUMP.FUN</text>')
+# rows
+rows = [('Contract address', '<tspan class="mono" style="fill:#f4f6ee">7xKp…pump</tspan>'),
+        ('pump.fun website', '<tspan class="mono lime">this page</tspan>')]
+ry = py + 380
+for label, val in rows:
+    b.append(f'<path d="M{px + 46} {ry - 44}H{px + pw - 46}" stroke="rgb(255 255 255 / 0.08)" stroke-width="2"/>')
+    b.append(f'<text class="muted" x="{px + 46}" y="{ry}" font-size="28">{label}</text>')
+    b.append(f'<text x="{px + pw - 46}" y="{ry}" font-size="28" text-anchor="end">{val}</text>')
+    ry += 84
+# launch cost tile on the right of the header
+tx, ty = px + pw - 300, py + 140
+b.append(panel(tx, ty, 254, 160, 16, lit=True))
+b.append(f'<text class="mono" x="{tx + 127}" y="{ty + 46}" font-size="20" text-anchor="middle" style="fill:rgb(244 246 238 / 0.38)">launch cost</text>')
+b.append(f'<text class="led lime glow" x="{tx + 127}" y="{ty + 118}" font-size="64" text-anchor="middle">FREE</text>')
+b.append('<text class="dim" x="800" y="835" font-size="27" text-anchor="middle">Grok sends back the page and the contract address.</text>')
+page('04-live.html', 1600, 900, b)
 
 # ---------------------------------------------------------------- 5 close 1600x900
 b = [lockup(800, 370, 300)]
